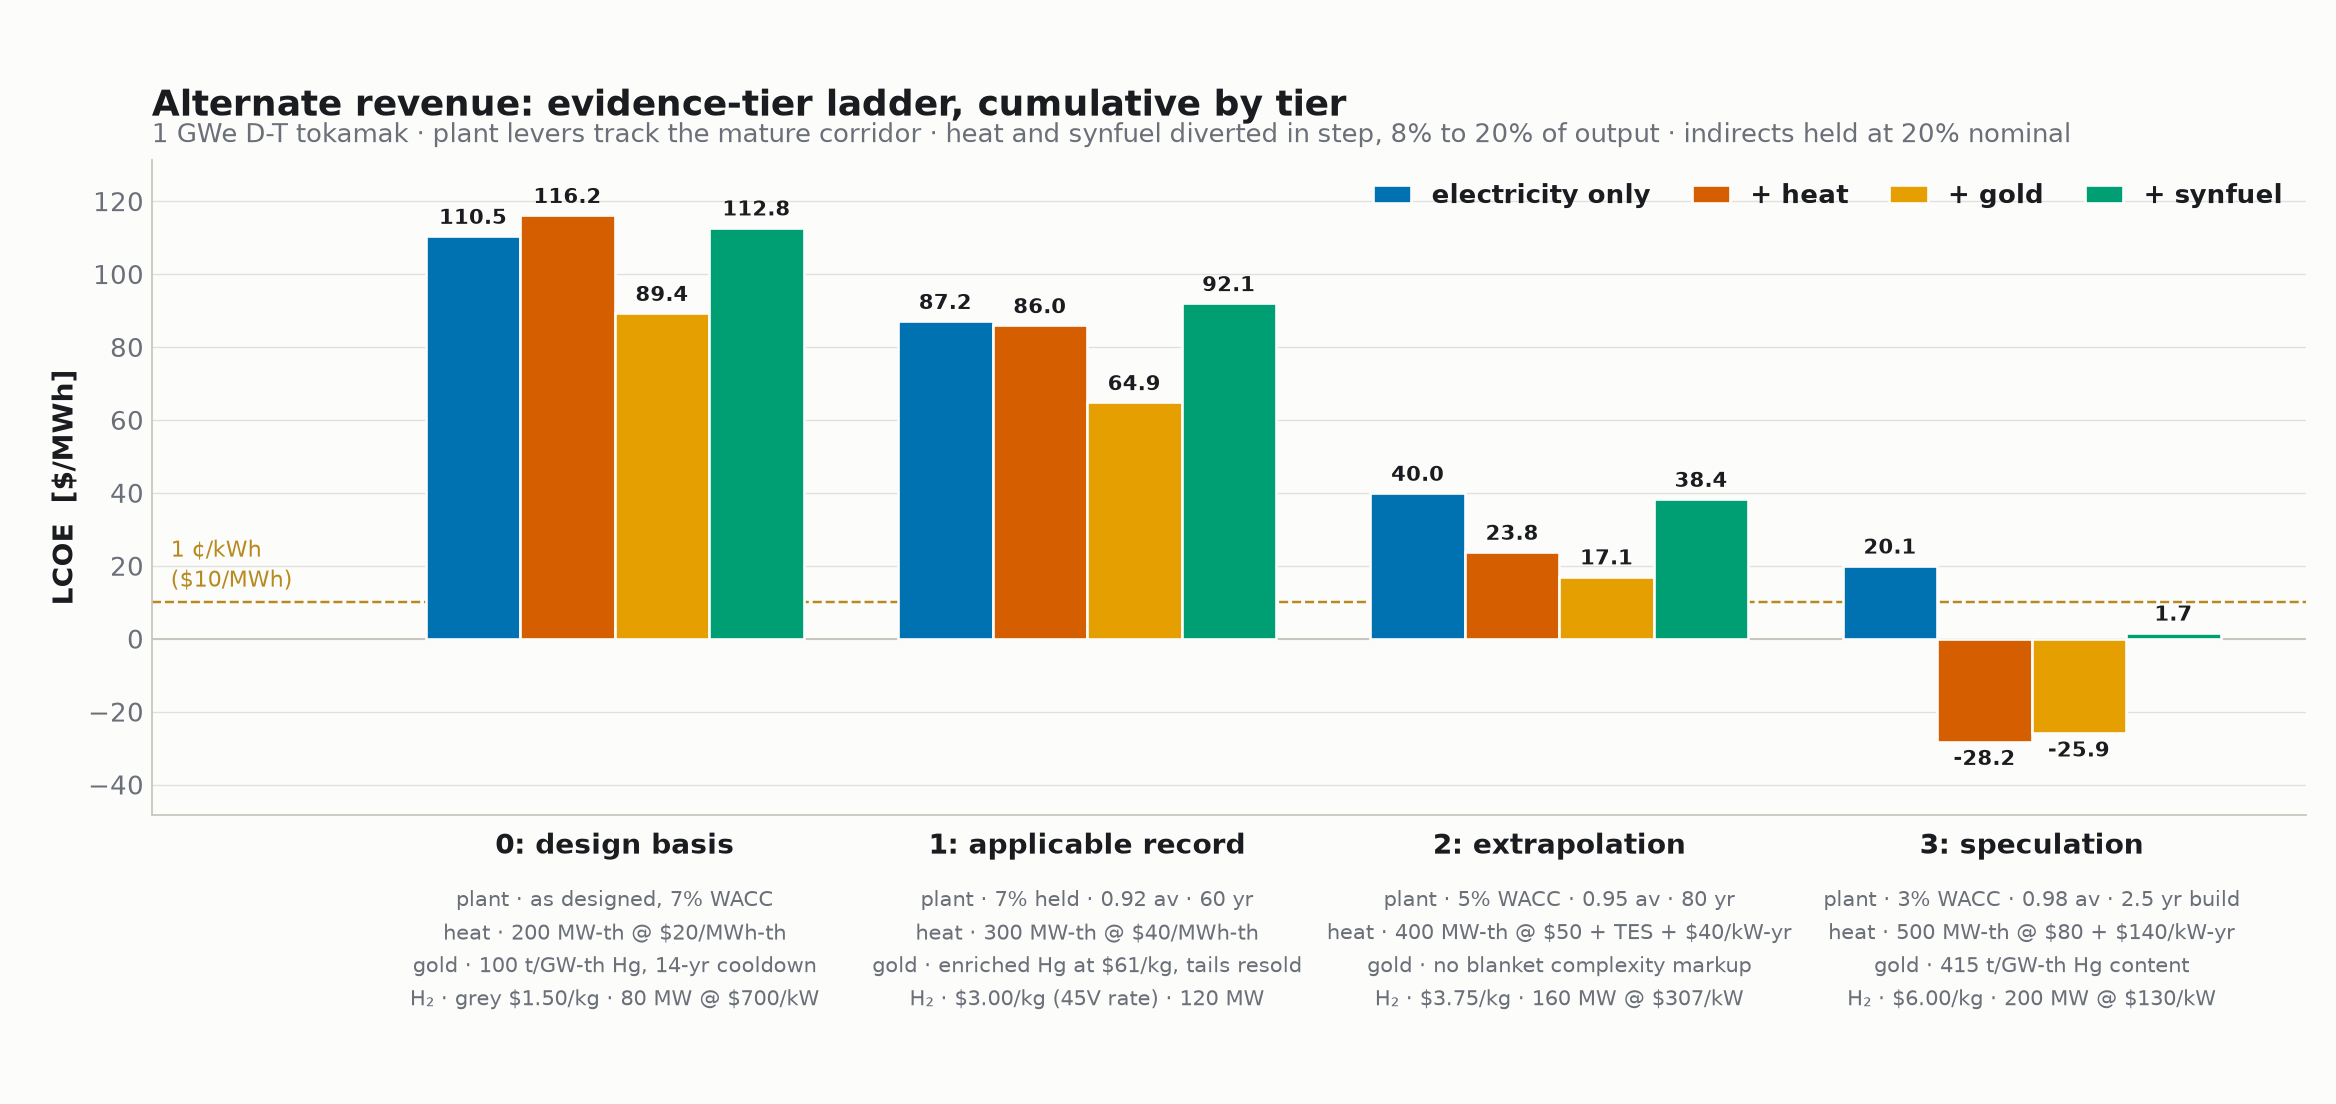
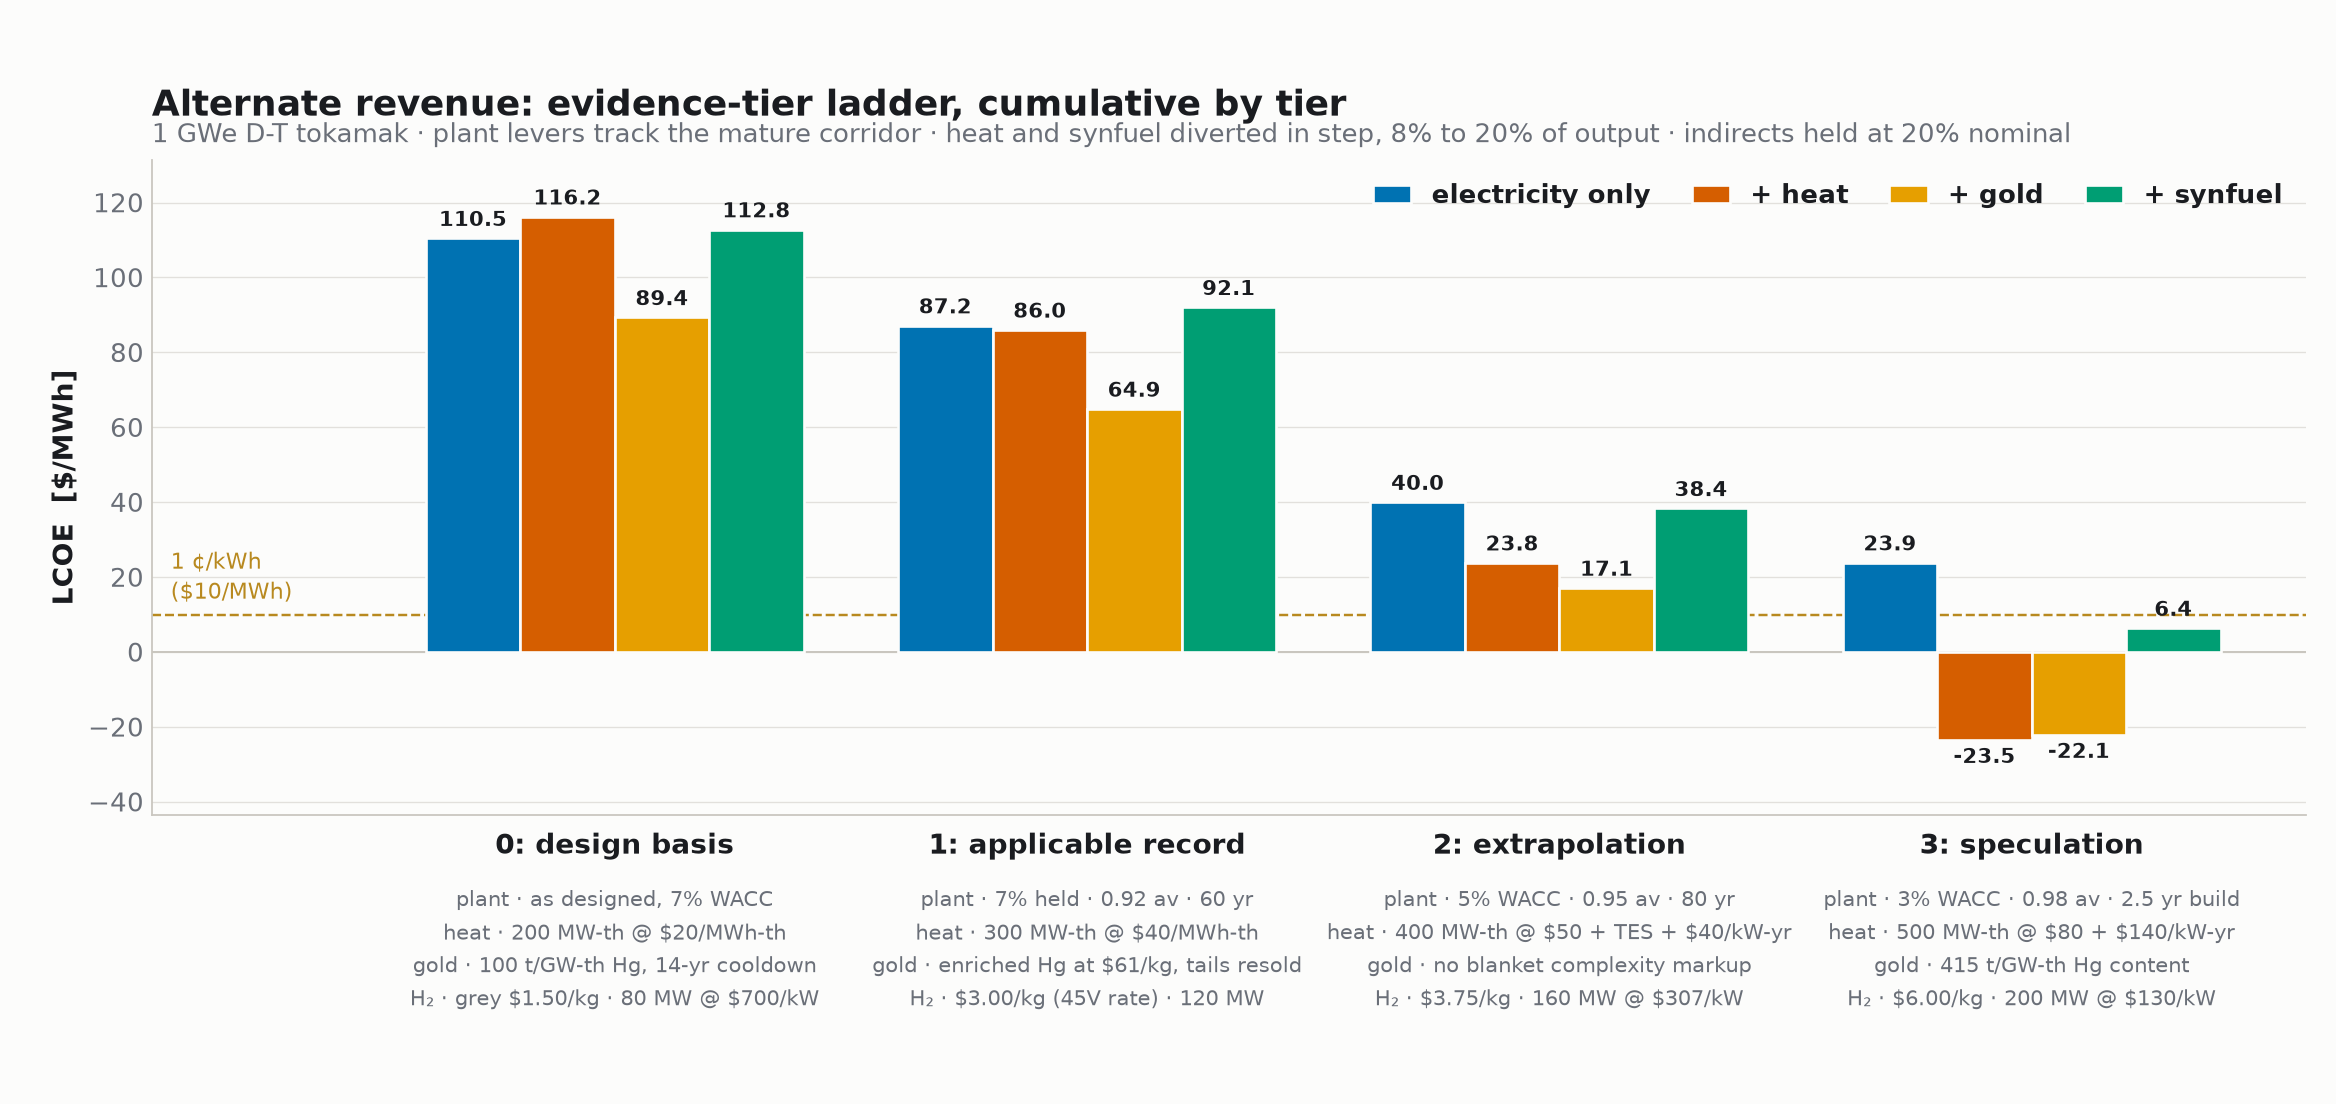
Tier 3 holds the tier-2 -55% fixed O&M; lights-out credited in none of the D-T ladders

diff --git a/revenue_tier_ladder.py b/revenue_tier_ladder.py
@@ -81,8 +81,9 @@ CRF = [crf(w, n) for w, n in zip(WACC, LIFE)]
 # the lever stack applied to this machine rather than the CT ratios.
 # CT is the mature corridor's compact-tokamak ladder at 1 GWe (Magnetic_DT_Corridor,
 # corridor_tiers.json "tok_1g"): design basis, records, extrapolations, speculation,
-# the last with lights-out O&M (fixed O&M x 0.0855) as every tier-3 in the set now carries.
-CT = [114.5790, 90.3763, 41.4942, 20.8100]
+# the last holding the tier-2 fixed-O&M reduction (-55%), the one tier-3 O&M convention
+# the three D-T ladders share (lights-out operation is credited in none of them).
+CT = [114.5790, 90.3763, 41.4942, 24.7544]
 PLANT = [110.5 * c / CT[0] for c in CT]
 
 

diff --git a/README.md b/README.md
@@ -17,11 +17,11 @@ market evidence for the co-product *and* the plant evidence beneath it together.
 | 0 · design basis | $110.50 | $116.23 | $89.35 | $112.80 |
 | 1 · applicable record | $87.16 | $86.01 | $64.89 | $92.05 |
 | 2 · extrapolation with a known mechanism | $40.02 | $23.85 | $17.10 | $38.36 |
-| 3 · speculation, no mechanism | $20.07 | **−$28.22** | **−$25.91** | **$1.69** |
+| 3 · speculation, no mechanism | $23.87 | **−$23.46** | **−$22.11** | **$6.40** |
 
 All figures $/MWh. At the design basis **only gold pays** — heat and synfuel both *raise*
 the cost of electricity, because the plant is too expensive for its own heat or hydrogen
-to be worth diverting. The plant's own levers carry $90.4/MWh of the descent, more than
+to be worth diverting. The plant's own levers carry $86.6/MWh of the descent, more than
 any co-product buys.
 
 ## Reproducing
@@ -44,7 +44,7 @@ python revenue_tornado.py          # figures/revenue_tornado.png
   0: design basis              110.50    116.23     89.35     112.80
   1: applicable record          87.16     86.01     64.89      92.05
   2: extrapolation              40.02     23.85     17.10      38.36
-  3: speculation                20.07    -28.22    -25.91       1.69
+  3: speculation                23.87    -23.46    -22.11       6.40
 ```
 
 The gold co-product ledger and the three interactive tools were produced against a
@@ -130,10 +130,10 @@ required to reproduce the ladder or the tornado**, which carry their own model.
   4.15× the mercury for 1.9× the gold.
 - The plant ladder is the mature corridor's compact-tokamak result at 1 GWe
   ([Magnetic_DT_Corridor](https://github.com/1cFE/Magnetic_DT_Corridor), `corridor_tiers.json`,
-  `tok_1g`: 114.58 / 90.38 / 41.49 / 20.81 $/MWh) rescaled onto this dispatch's $110.5
+  `tok_1g`: 114.58 / 90.38 / 41.49 / 24.75 $/MWh) rescaled onto this dispatch's $110.5
   baseline, `PLANT = 110.5 × CT / CT[0]`, not a direct 1costingFE run of this machine. Its
-  tier 3 carries lights-out O&M (fixed O&M × 0.0855) and the 20%-nominal indirect-cost
-  convention, as the mature and pulsed ladders do.
+  tier 3 holds the tier-2 fixed-O&M reduction (−55%, lights-out not credited) and the
+  20%-nominal indirect-cost convention, as the mature and pulsed ladders do.
 
 ## Contact
 
